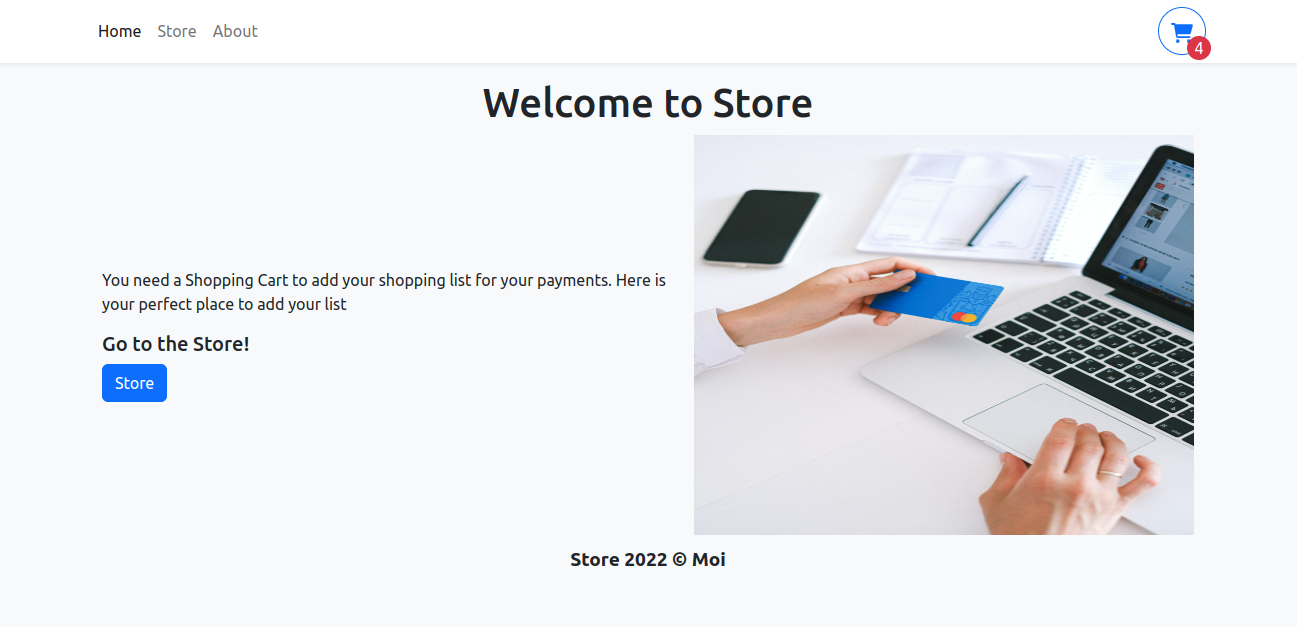
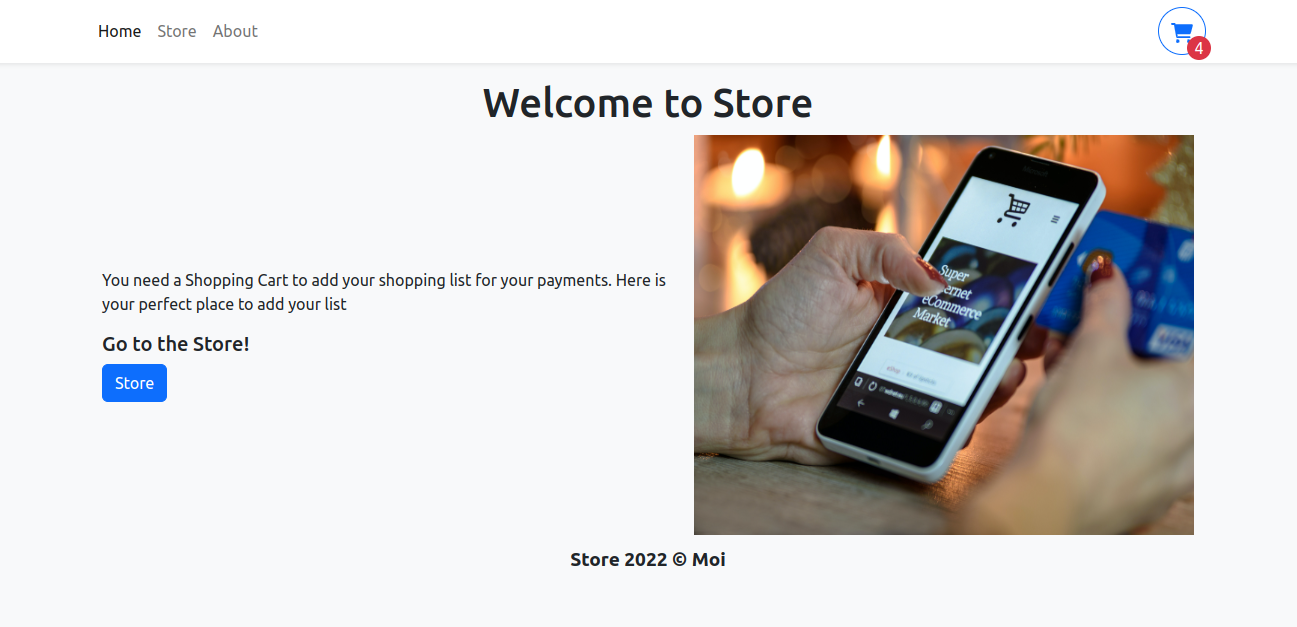
add changes

Changed region(s): [[0.5243, 0.2121, 0.9252, 0.8788]]

diff --git a/src/pages/Home.tsx b/src/pages/Home.tsx
@@ -12,7 +12,7 @@ export function Home() {
   <a href="/store"><Button>Store</Button></a>
   </div>
   <div>
-  <img src="/public/imgs/2.jpg" alt="#" style={{width: "500px", height:"400px"}}/>
+  <img src="/public/imgs/1.jpg" alt="#" style={{width: "500px", height:"400px"}}/>
   </div>
   </Container>
   <Footer/>
